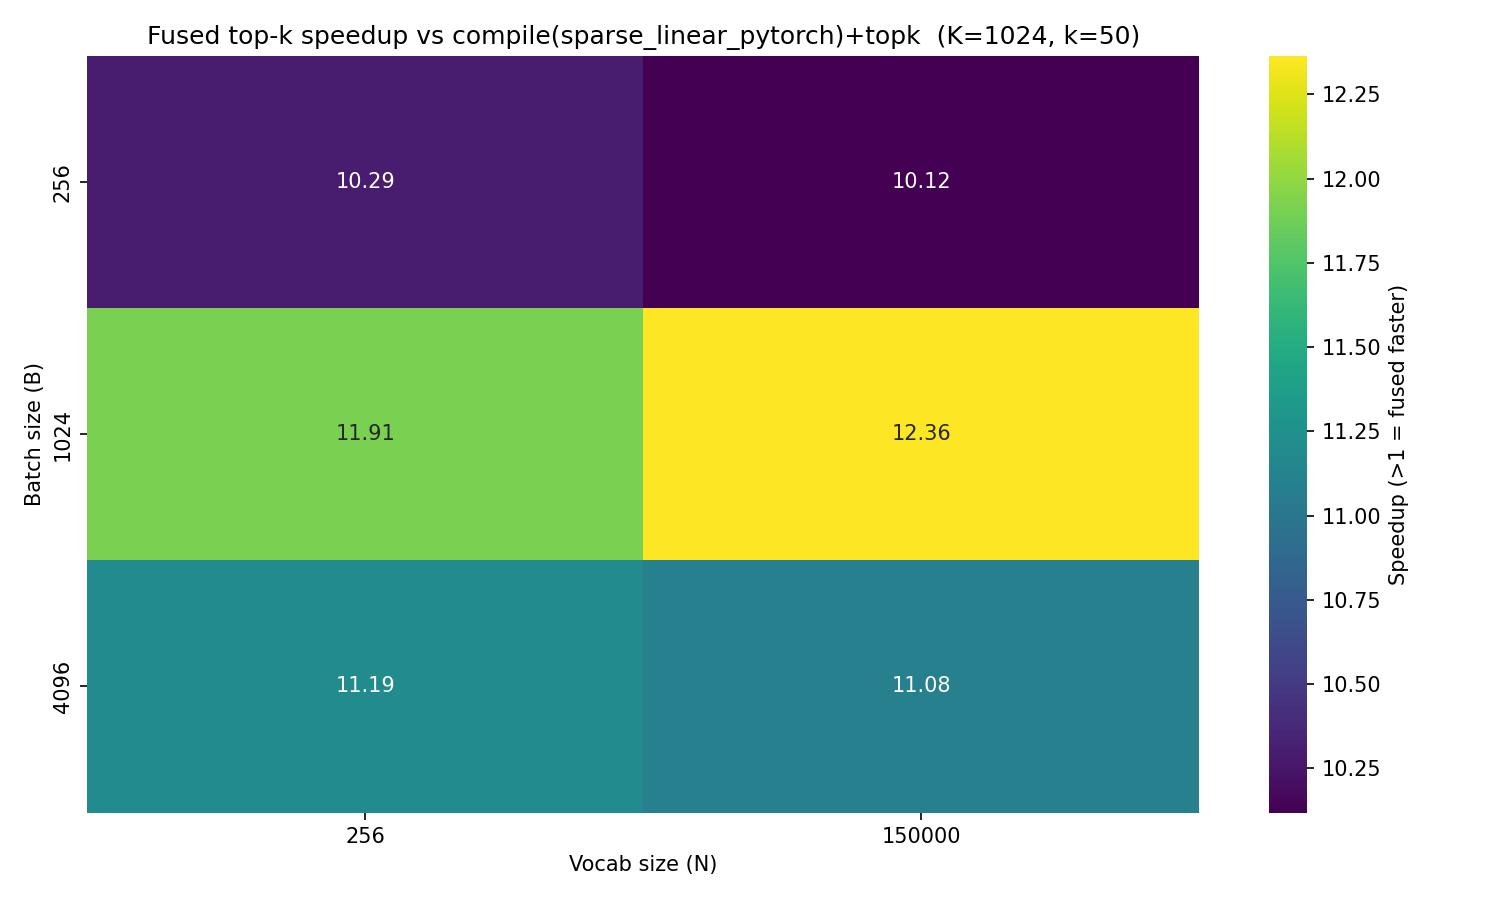
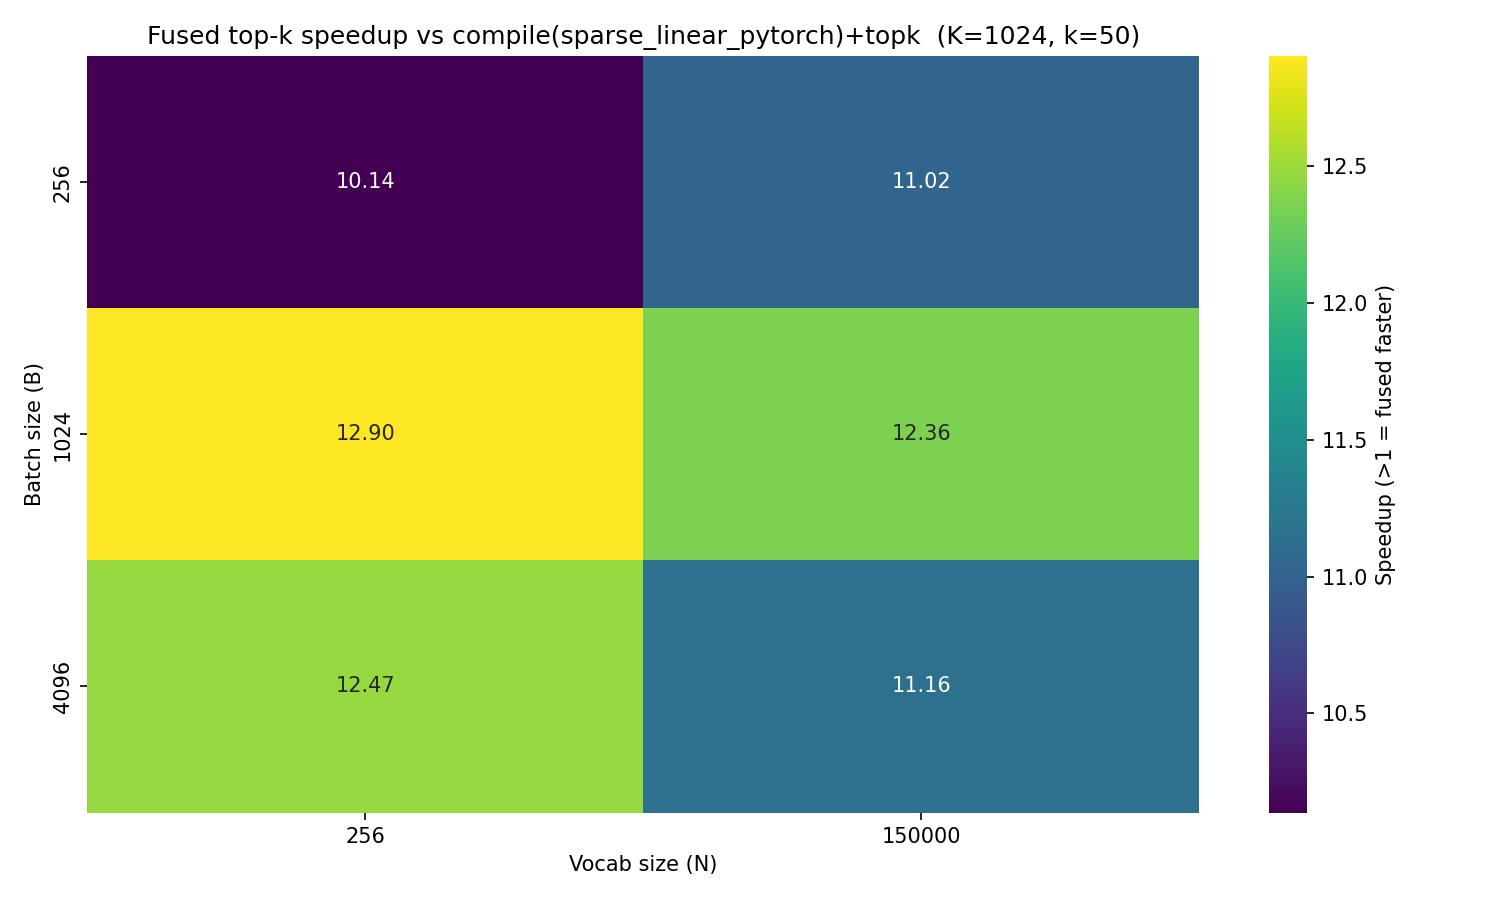
Improve sampling kernel

diff --git a/rectokens/kernels/constrained_node_transition.py b/rectokens/kernels/constrained_node_transition.py
@@ -187,6 +187,8 @@ _FUSED_AUTOTUNE_CONFIGS = [
     # triton.Config({"BLOCK_B": 64, "BLOCK_K": 64, "BLOCK_BRANCHES": 64}),
     # triton.Config({"BLOCK_B": 128, "BLOCK_K": 64, "BLOCK_BRANCHES": 64}),
 ]
+# Minimum BLOCK_BRANCHES across _FUSED_AUTOTUNE_CONFIGS; used to bound max_br_blocks at allocation time.
+_FUSED_MIN_BLOCK_BRANCHES = 4
 
 
 # ─────────────────────────────────────────────────────────────────────────────
@@ -223,53 +225,6 @@ def _select_branch(
     )
     return br_sel, col_k, c_mask
 
-
-@triton.jit
-def _extract_branch(
-    local_br: tl.constexpr,
-    branch_cols,  # [BLOCK_B, BLOCK_BRANCHES]
-    branch_vals,  # [BLOCK_B, BLOCK_BRANCHES]
-    branch_valid,  # [BLOCK_B, BLOCK_BRANCHES]
-    logits,  # [BLOCK_B, BLOCK_BRANCHES]
-    BLOCK_BRANCHES: tl.constexpr,
-):
-    """Return (col_k, val_k, c_mask, logit_k) — all [BLOCK_B] — for branch slot local_br."""
-    br_sel, col_k, c_mask = _select_branch(
-        local_br, branch_cols, branch_valid, BLOCK_BRANCHES
-    )
-    val_k = tl.sum(tl.where(br_sel[None, :], branch_vals, 0), axis=1)
-    logit_k = tl.sum(tl.where(br_sel[None, :], logits, 0.0), axis=1)
-    return col_k, val_k, c_mask, logit_k
-
-
-@triton.jit
-def _store_branch_outputs(
-    offs_B,
-    b_mask,
-    in_range,
-    branch_idx,
-    col_k,
-    val_k,
-    next_node_ptr,
-    next_node_stride_B,
-    next_node_stride_N,
-    valid_idxs_ptr,
-    valid_idxs_stride_B,
-    valid_idxs_stride_N,
-):
-    """Write val_k → next_node and col_k → valid_idxs for one branch slot."""
-    tl.store(
-        next_node_ptr + offs_B * next_node_stride_B + branch_idx * next_node_stride_N,
-        val_k,
-        mask=b_mask & in_range,
-    )
-    tl.store(
-        valid_idxs_ptr
-        + offs_B * valid_idxs_stride_B
-        + branch_idx * valid_idxs_stride_N,
-        col_k,
-        mask=b_mask & in_range,
-    )
 
 
 @triton.jit
@@ -357,29 +312,6 @@ def _compute_branch_logits(
 
     return branch_cols, branch_vals, branch_valid, logits
 
-
-@triton.jit
-def _gumbel_max_update(
-    rng_seed,
-    offs_B,
-    max_branches,
-    branch_idx,
-    logit_k,
-    temperature,
-    child_mask,
-    col_k,
-    block_sample,
-    block_max_gumbel,
-):
-    # See: https://arxiv.org/pdf/2603.15854
-    u = tl.rand(seed=rng_seed, offset=offs_B * max_branches + branch_idx)
-    gumbel = -tl.log(-tl.log(u + 1e-10) + 1e-10)
-    g_k = tl.where(child_mask, logit_k / temperature + gumbel, float("-inf"))
-    improved = g_k > block_max_gumbel
-    return (
-        tl.where(improved, col_k.to(tl.float32), block_sample),
-        tl.where(improved, g_k, block_max_gumbel),
-    )
 
 
 # ─────────────────────────────────────────────────────────────────────────────
@@ -522,37 +454,29 @@ def _fused_sparse_linear_constrained_node_transition_kernel(
         HAS_BIAS,
     )
 
+    # next_node and valid_idxs are indexed contiguously by branch slot — store as 2D blocks.
+    store_mask = b_mask[:, None] & (offs_BR[None, :] < max_branches)
+    tl.store(
+        next_node_ptr + offs_B[:, None] * next_node_stride_B + offs_BR[None, :] * next_node_stride_N,
+        branch_vals,
+        mask=store_mask,
+    )
+    tl.store(
+        valid_idxs_ptr + offs_B[:, None] * valid_idxs_stride_B + offs_BR[None, :] * valid_idxs_stride_N,
+        branch_cols,
+        mask=store_mask,
+    )
+
+    # corrected_logits is indexed by token column (scattered) — requires per-branch loop.
     for local_br in tl.static_range(BLOCK_BRANCHES):
-        branch_idx = pid_BR * BLOCK_BRANCHES + local_br
-        in_range = branch_idx < max_branches
-        col_k, val_k, c_mask, logit_k = _extract_branch(
-            local_br,
-            branch_cols,
-            branch_vals,
-            branch_valid,
-            logits,
-            BLOCK_BRANCHES,
-        )
+        br_sel, col_k, c_mask = _select_branch(local_br, branch_cols, branch_valid, BLOCK_BRANCHES)
+        logit_k = tl.sum(tl.where(br_sel[None, :], logits, 0.0), axis=1)
         tl.store(
             corrected_logits_ptr
             + offs_B * corrected_logits_stride_B
             + col_k * corrected_logits_stride_N,
             logit_k.to(tl.bfloat16),
             mask=c_mask,
-        )
-        _store_branch_outputs(
-            offs_B,
-            b_mask,
-            in_range,
-            branch_idx,
-            col_k,
-            val_k,
-            next_node_ptr,
-            next_node_stride_B,
-            next_node_stride_N,
-            valid_idxs_ptr,
-            valid_idxs_stride_B,
-            valid_idxs_stride_N,
         )
 
 
@@ -596,10 +520,15 @@ def _fused_linear_constrained_node_transition_sampling_op(
 
     next_node = cur_node.new_full((B, max_branches), -1)
     valid_idxs = cur_node.new_full((B, max_branches), -1)
-    sample = torch.full((B,), -1.0, dtype=torch.float32, device=a.device)
-    gumbel_max = torch.full((B,), float("-inf"), dtype=torch.float32, device=a.device)
-    num_locks = triton.cdiv(B, 16)
-    locks = torch.zeros(num_locks, dtype=torch.int32, device=a.device)
+    # Worst-case block count uses the minimum BLOCK_BRANCHES across all autotune configs.
+    # Configs with larger BLOCK_BRANCHES write fewer entries; unused slots stay at -inf/-1.
+    max_br_blocks = triton.cdiv(max_branches, _FUSED_MIN_BLOCK_BRANCHES)
+    gumbel_block_max = torch.full(
+        (B, max_br_blocks), float("-inf"), dtype=torch.float32, device=a.device
+    )
+    block_sample_buf = torch.full(
+        (B, max_br_blocks), -1.0, dtype=torch.float32, device=a.device
+    )
 
     grid = lambda meta: (
         triton.cdiv(B, meta["BLOCK_B"]),
@@ -613,9 +542,6 @@ def _fused_linear_constrained_node_transition_sampling_op(
         csr_trie_row_ptr=csr_row_ptrs,
         csr_trie_cols_vals_ptr=csr_cols_vals,
         temperature_ptr=temperature,
-        gumbel_max_ptr=gumbel_max,
-        locks_ptr=locks,
-        num_locks=num_locks,
         a_stride_B=a.stride(0),
         a_stride_K=a.stride(1),
         b_stride_K=b.stride(0),
@@ -623,30 +549,29 @@ def _fused_linear_constrained_node_transition_sampling_op(
         cols_vals_stride_0=csr_cols_vals.stride(0),
         next_node_ptr=next_node,
         valid_idxs_ptr=valid_idxs,
-        sample_ptr=sample,
+        gumbel_block_max_ptr=gumbel_block_max,
+        block_sample_ptr=block_sample_buf,
         next_node_stride_B=next_node.stride(0),
         next_node_stride_N=next_node.stride(1),
         valid_idxs_stride_B=valid_idxs.stride(0),
         valid_idxs_stride_N=valid_idxs.stride(1),
+        max_br_blocks=max_br_blocks,
         rng_seed=rng_seed,
         B=B,
         K=K,
         max_branches=max_branches,
         HAS_BIAS=has_bias,
     )
+
+    argmax = torch.max(gumbel_block_max, dim=1).indices  # [B]
+    sample = block_sample_buf.gather(1, argmax.unsqueeze(1)).squeeze(1)
     return next_node, valid_idxs, sample
 
 
 @triton.autotune(
     configs=_FUSED_AUTOTUNE_CONFIGS,
     key=["B", "K", "max_branches"],
-    restore_value=[
-        "next_node_ptr",
-        "valid_idxs_ptr",
-        "sample_ptr",
-        "gumbel_max_ptr",
-        "locks_ptr",
-    ],
+    restore_value=["next_node_ptr", "valid_idxs_ptr", "gumbel_block_max_ptr", "block_sample_ptr"],
 )
 @triton.jit
 def _fused_sparse_linear_constrained_node_transition_sampling_kernel(
@@ -658,9 +583,6 @@ def _fused_sparse_linear_constrained_node_transition_sampling_kernel(
     csr_trie_row_ptr,
     csr_trie_cols_vals_ptr,
     temperature_ptr,
-    gumbel_max_ptr,
-    locks_ptr,
-    num_locks,
     a_stride_B,
     a_stride_K,
     b_stride_K,
@@ -669,11 +591,13 @@ def _fused_sparse_linear_constrained_node_transition_sampling_kernel(
     # Outputs
     next_node_ptr,
     valid_idxs_ptr,
-    sample_ptr,
+    gumbel_block_max_ptr,
+    block_sample_ptr,
     next_node_stride_B,
     next_node_stride_N,
     valid_idxs_stride_B,
     valid_idxs_stride_N,
+    max_br_blocks,
     rng_seed,
     # Constants
     B: tl.constexpr,
@@ -718,71 +642,39 @@ def _fused_sparse_linear_constrained_node_transition_sampling_kernel(
         HAS_BIAS,
     )
 
+    # next_node and valid_idxs are contiguous by branch slot — store as 2D blocks, no loop.
+    store_mask = b_mask[:, None] & (offs_BR[None, :] < max_branches)
+    tl.store(
+        next_node_ptr + offs_B[:, None] * next_node_stride_B + offs_BR[None, :] * next_node_stride_N,
+        branch_vals,
+        mask=store_mask,
+    )
+    tl.store(
+        valid_idxs_ptr + offs_B[:, None] * valid_idxs_stride_B + offs_BR[None, :] * valid_idxs_stride_N,
+        branch_cols,
+        mask=store_mask,
+    )
+
+    # Vectorized Gumbel-max over the full [BLOCK_B, BLOCK_BRANCHES] block — registers only, no sync.
+    # See: https://arxiv.org/pdf/2603.15854
     temperature = tl.load(temperature_ptr)
-    block_max_gumbel = tl.full((BLOCK_B,), float("-inf"), dtype=tl.float32)
-    block_sample = tl.full((BLOCK_B,), -1.0, dtype=tl.float32)
+    u = tl.rand(seed=rng_seed, offset=offs_B[:, None] * max_branches + offs_BR[None, :])
+    gumbel = -tl.log(-tl.log(u + 1e-10) + 1e-10)
+    g_vals = tl.where(branch_valid, logits / temperature + gumbel, float("-inf"))
+    block_max_gumbel = tl.max(g_vals, axis=1)  # [BLOCK_B]
 
-    for local_br in tl.static_range(BLOCK_BRANCHES):
-        branch_idx = pid_BR * BLOCK_BRANCHES + local_br
-        in_range = branch_idx < max_branches
-        col_k, val_k, c_mask, logit_k = _extract_branch(
-            local_br,
-            branch_cols,
-            branch_vals,
-            branch_valid,
-            logits,
-            BLOCK_BRANCHES,
-        )
-        _store_branch_outputs(
-            offs_B,
-            b_mask,
-            in_range,
-            branch_idx,
-            col_k,
-            val_k,
-            next_node_ptr,
-            next_node_stride_B,
-            next_node_stride_N,
-            valid_idxs_ptr,
-            valid_idxs_stride_B,
-            valid_idxs_stride_N,
-        )
-        block_sample, block_max_gumbel = _gumbel_max_update(
-            rng_seed,
-            offs_B,
-            max_branches,
-            branch_idx,
-            logit_k,
-            temperature,
-            c_mask,
-            col_k,
-            block_sample,
-            block_max_gumbel,
-        )
+    # Recover winning token: exactly one winner per batch element (gumbel ties are negligible).
+    is_winner = (g_vals == block_max_gumbel[:, None]) & branch_valid
+    block_sample = tl.sum(tl.where(is_winner, branch_cols.to(tl.float32), 0.0), axis=1)
 
-    # Cross-block Gumbel-max reduction: spinlock protects per-batch-block update.
-    # tl.atomic_max on float32 is not correct for negative values, so we use a
-    # compare-and-store pattern under the lock instead.
-    lock_ptr = locks_ptr + pid_B // tl.cdiv(B, BLOCK_B * num_locks)
-    while tl.atomic_cas(lock_ptr, 0, 1) == 1:
-        pass
-
-    cur_max = tl.load(gumbel_max_ptr + offs_B, mask=b_mask, other=float("-inf"))
-    improved_global = block_max_gumbel > cur_max
+    # One write per (batch, branch-block) — unique addresses, no lock needed.
+    # Skip block_sample write when no valid branch exists; buf retains its -1.0 init value.
+    tl.store(gumbel_block_max_ptr + offs_B * max_br_blocks + pid_BR, block_max_gumbel, mask=b_mask)
     tl.store(
-        gumbel_max_ptr + offs_B,
-        tl.where(improved_global, block_max_gumbel, cur_max),
-        mask=b_mask,
+        block_sample_ptr + offs_B * max_br_blocks + pid_BR,
+        block_sample,
+        mask=b_mask & (block_max_gumbel > float("-inf")),
     )
-    cur_sample = tl.load(sample_ptr + offs_B, mask=b_mask, other=-1.0)
-    tl.store(
-        sample_ptr + offs_B,
-        tl.where(improved_global, block_sample, cur_sample),
-        mask=b_mask,
-    )
-
-    tl.debug_barrier()
-    tl.atomic_xchg(lock_ptr, 0)
 
 
 # ─────────────────────────────────────────────────────────────────────────────

diff --git a/examples/scripts/benchmark/benchmark_fused_sample.py b/examples/scripts/benchmark/benchmark_fused_sample.py
@@ -42,9 +42,8 @@ ALL_ALGORITHMS = [
     "sparse_pytorch_topk_compact",
 ]
 DEFAULT_ALGORITHMS = [
-    "fused_topk",
-    "sparse_pytorch_topk",
-    "sparse_pytorch_topk_compact",
+    "fused_sample",
+    "sparse_pytorch_sample",
 ]
 DEFAULT_SPARSITY = 0.01
 
